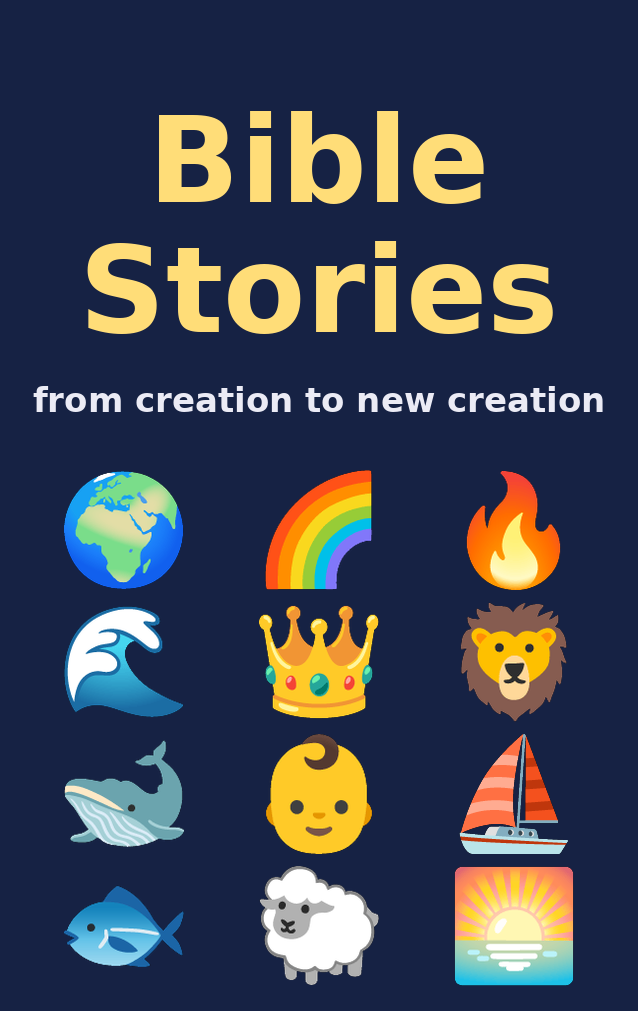
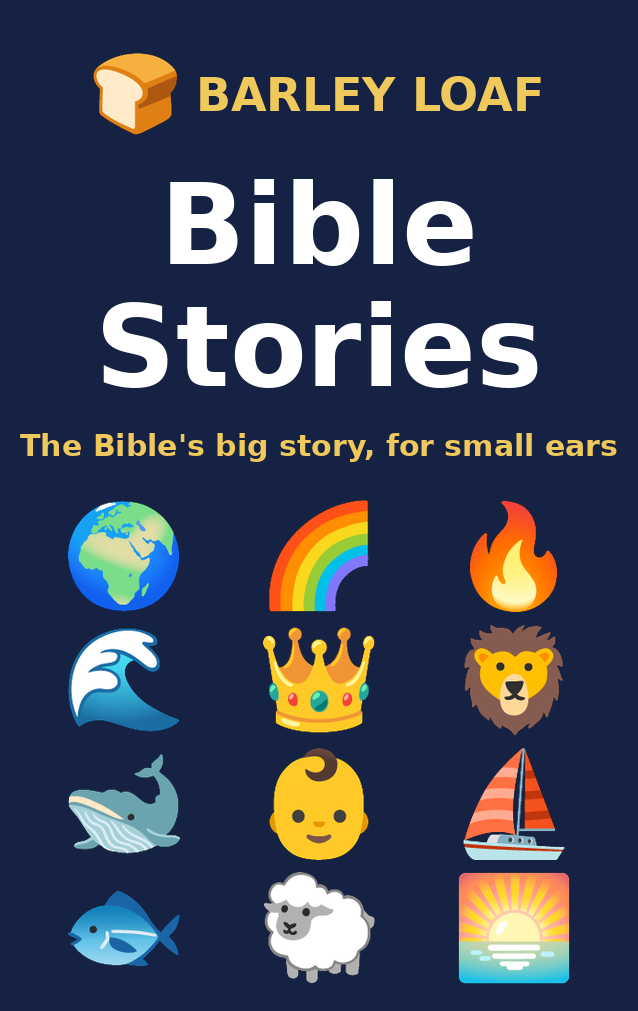
Add Barley Loaf brand, go-to-market plan and seasonal packs
Claude-Session: https://claude.ai/code/session_014qyqSGdw641w1TdqcS57hF

Changed region(s): [[0.0298, 0.0307, 0.9828, 0.9812], [0.7743, 0.9505, 0.8339, 0.9812]]

diff --git a/pipeline/pack.py b/pipeline/pack.py
@@ -1,7 +1,7 @@
 #!/usr/bin/env python3
 """Assemble sellable digital packs from build/tracks and assets.
 
-  pack.py            builds build/packs/{complete,old-testament,new-testament}/
+  pack.py            builds every pack in PACKS under build/packs/
 
 Each pack holds audio/, icons/, cover.png, playlist.json, Parent-Guide.html
 (printed to PDF by pipeline/guide_pdf.js), LICENCE.txt and NOTICES.txt.
@@ -13,9 +13,16 @@ import shutil
 from pathlib import Path
 
 ROOT = Path(__file__).resolve().parent.parent
-PACKS = {"complete": (1, 60, "Bible Stories: Creation to New Creation"),
-         "old-testament": (1, 33, "Bible Stories: The Old Testament"),
-         "new-testament": (34, 60, "Bible Stories: The New Testament")}
+BRAND = "Barley Loaf Bible Stories"
+R = lambda lo, hi: list(range(lo, hi + 1))
+PACKS = {  # slug: (story numbers, pack name)
+    "complete": (R(1, 60), "The Complete Collection: Creation to New Creation"),
+    "old-testament": (R(1, 33), "Volume 1: The Old Testament"),
+    "new-testament": (R(34, 60), "Volume 2: The New Testament"),
+    "christmas": ([33, 34, 35, 36], "The Christmas Story"),
+    "easter": ([51, 52, 53, 54, 55], "The Easter Story"),
+    "free-sampler": ([1, 25, 40, 45, 48], "Free Sampler"),
+}
 
 LICENCE = """LICENCE: PERSONAL AND HOUSEHOLD USE
 
@@ -56,6 +63,7 @@ CSS = """
 @page { size: A4; margin: 18mm 16mm; }
 body { font: 11pt/1.5 Georgia, 'DejaVu Serif', serif; color: #1c2333; }
 h1 { font: 700 26pt/1.15 'DejaVu Sans', Helvetica, sans-serif; color: #16224a; margin: 0 0 4pt; }
+p.brand { font: 700 11pt 'DejaVu Sans', Helvetica, sans-serif; letter-spacing: 1.5pt; text-transform: uppercase; color: #b98a12; margin: 0 0 6pt; }
 h2 { font: 700 14pt 'DejaVu Sans', Helvetica, sans-serif; color: #16224a; margin: 20pt 0 6pt;
      border-bottom: 2px solid #f0c95c; padding-bottom: 3pt; break-after: avoid; }
 p.lead { font-size: 12.5pt; }
@@ -88,11 +96,12 @@ def guide(name, stories, total_s):
     weighty = "".join(f"<li><b>{s['number']}. {e(s['title'])}</b> ({e(s['refs'])})</li>"
                       for s in stories if s["weighty"])
     n = len(stories)
-    return f"""<!doctype html><html lang="en-GB"><meta charset="utf-8"><title>{e(name)}</title>
+    return f"""<!doctype html><html lang="en-GB"><meta charset="utf-8"><title>{e(BRAND)}: {e(name)}</title>
 <style>{CSS}</style><body>
+<p class=brand>{e(BRAND)}</p>
 <h1>{e(name)}</h1>
 <p class=lead>{n} Bible stories for children aged three to five, told in order,
-with a cast of voices. {total_s / 3600:.1f} hours of audio, ready for a Yoto
+with a cast of voices. {round(total_s / 60)} minutes of audio, ready for a Yoto
 Make Your Own card or any MP3 player.</p>
 
 <h2>What is in this pack</h2>
@@ -112,7 +121,7 @@ Make Your Own card or any MP3 player.</p>
 <li>For each track, click its small icon, choose upload, and pick the picture from <b>icons</b> with the same number. Allow about ten minutes. This step is optional.</li>
 <li>Save. In the Yoto app on your phone, open the playlist, choose link to card, and hold a blank Make Your Own card on the player.</li>
 </ol>
-<p class=small>One card holds up to 100 tracks and 5 hours, so this pack fits on a single card.
+<p class=small>One card holds up to 100 tracks and 5 hours, so this pack fits on one card with room to spare.
 The files are ordinary MP3s and also play on any phone, tablet, car stereo or other children's audio player.</p>
 
 <h2>How the stories are told</h2>
@@ -128,8 +137,7 @@ The files are ordinary MP3s and also play on any phone, tablet, car stereo or ot
 <p class=small><span class=w>W</span> marks a weighty story: it includes death, judgement or real danger. You may want to listen first.</p>
 <table><tr><th>#</th><th>Story</th><th>Bible passage</th><th>Length</th></tr>{rows}</table>
 
-<h2>Weighty stories in this pack</h2>
-<ul>{weighty}</ul>
+{("<h2>Weighty stories in this pack</h2><ul>" + weighty + "</ul>") if weighty else ""}
 
 <h2>How this was made</h2>
 <p>The scripts are original retellings written for this collection and checked against the Bible passages listed above.
@@ -149,25 +157,25 @@ def main():
     for s in stories:
         rep = ROOT / "build" / "reports" / f"{s['stem']}.json"
         s["seconds"] = json.loads(rep.read_text())["seconds"]
-    for slug, (lo, hi, name) in PACKS.items():
+    for slug, (numbers, name) in PACKS.items():
         out = ROOT / "build" / "packs" / slug
         shutil.rmtree(out, ignore_errors=True)
         (out / "audio").mkdir(parents=True)
         (out / "icons").mkdir()
-        chosen = [s for s in stories if lo <= s["number"] <= hi]
+        chosen = [s for s in stories if s["number"] in numbers]
         for s in chosen:
             shutil.copy(ROOT / "build" / "tracks" / f"{s['stem']}.mp3", out / "audio")
             shutil.copy(ROOT / "assets" / "icons" / f"{s['stem']}.png", out / "icons")
         shutil.copy(ROOT / "assets" / "cover.png", out / "cover.png")
         total = sum(s["seconds"] for s in chosen)
-        (out / "playlist.json").write_text(json.dumps({"title": name, "cover": "cover.png", "chapters": [
+        (out / "playlist.json").write_text(json.dumps({"title": f"{BRAND}: {name}", "cover": "cover.png", "chapters": [
             {"number": s["number"], "title": s["title"], "passage": s["refs"], "weighty": s["weighty"],
              "seconds": s["seconds"], "audio": f"audio/{s['stem']}.mp3", "icon": f"icons/{s['stem']}.png"}
             for s in chosen]}, indent=2, ensure_ascii=False))
         (out / "LICENCE.txt").write_text(LICENCE)
         (out / "NOTICES.txt").write_text(NOTICES)
         (out / "Parent-Guide.html").write_text(guide(name, chosen, total))
-        print(f"{slug}: {len(chosen)} stories, {total / 3600:.2f} h")
+        print(f"{slug}: {len(chosen)} stories, {total / 60:.0f} min")
 
 
 if __name__ == "__main__":

diff --git a/pipeline/icons.py b/pipeline/icons.py
@@ -60,16 +60,23 @@ def main():
     cover = Image.new("RGB", (W, H), (22, 34, 68))
     d = ImageDraw.Draw(cover)
     bold = "/usr/share/fonts/truetype/dejavu/DejaVuSans-Bold.ttf"
-    for text, size, y in [("Bible", 120, 90), ("Stories", 120, 220)]:
+    loaf = glyph("🍞").resize((84, 84), Image.LANCZOS)
+    f = ImageFont.truetype(bold, 46)
+    brand = "BARLEY LOAF"
+    tw = d.textlength(brand, font=f)
+    x0 = (W - (84 + 18 + tw)) / 2
+    cover.paste(loaf, (int(x0), 52), loaf)
+    d.text((x0 + 84 + 18, 68), brand, font=f, fill=(240, 201, 92))
+    for text, size, y in [("Bible", 112, 160), ("Stories", 112, 282)]:
         f = ImageFont.truetype(bold, size)
-        d.text(((W - d.textlength(text, font=f)) / 2, y), text, font=f, fill=(255, 221, 120))
-    f = ImageFont.truetype(bold, 34)
-    sub = "from creation to new creation"
-    d.text(((W - d.textlength(sub, font=f)) / 2, 380), sub, font=f, fill=(235, 235, 245))
+        d.text(((W - d.textlength(text, font=f)) / 2, y), text, font=f, fill=(255, 255, 255))
+    f = ImageFont.truetype(bold, 30)
+    sub = "The Bible's big story, for small ears"
+    d.text(((W - d.textlength(sub, font=f)) / 2, 428), sub, font=f, fill=(240, 201, 92))
     picks = [1, 5, 15, 17, 24, 31, 29, 35, 40, 42, 45, 54]
     for i, n in enumerate(picks):
-        g = glyph(EMOJI[n]).resize((120, 120), Image.LANCZOS)
-        cover.paste(g, (64 + i % 3 * 195, 470 + i // 3 * 132), g)
+        g = glyph(EMOJI[n]).resize((112, 112), Image.LANCZOS)
+        cover.paste(g, (68 + i % 3 * 195, 500 + i // 3 * 124), g)
     cover.save(ROOT / "assets" / "cover.png")
     print(len(stories), "icons written")
 

diff --git a/docs/GO_TO_MARKET.md b/docs/GO_TO_MARKET.md
@@ -1,0 +1,174 @@
+# Go-to-market: Barley Loaf Bible Stories
+
+**Sell on Etsy to capture existing demand and on your own merchant-of-record
+store to keep the customers you bring yourself; launch the Christmas Story
+pack within ten days; and treat "thousands of buyers" as a 12 to 18 month
+target that depends on reaching beyond Yoto owners.** Yoto families who load
+their own cards and want Bible content number, on my estimate, only 20,000 to
+30,000 households worldwide, so Yoto alone will not deliver thousands.
+
+Written 21 November 2026. Prices and fees are from third-party pages unless
+stated and need checking against each platform before launch.
+
+## 1. The case against, first
+
+Three things can stop this reaching thousands, and each has a specific answer.
+
+1. **Computer voices are unpopular with exactly this audience.** Yoto's own
+   community forum has a thread titled "Disappointed with the rise in AI
+   content", and Yoto now badges AI audio. Some Christian parents will refuse
+   it on principle. Answer: disclose it in the first lines of every listing
+   (hiding it produces refunds and one-star reviews), lead with what is
+   strong (fidelity, order, the parent guide), give away a sampler so the
+   audio sells itself, and plan a human-narrated edition if sales justify it.
+   The scripts are the asset; the voices are replaceable.
+2. **The category is crowded and cheap.** Etsy already has many Bible story
+   packs for Yoto at US$5 to US$12 for 8 to 20 stories. Answer: do not
+   compete on price per pack. Compete on being the complete, ordered set with
+   a passage-by-passage parent guide, and use small seasonal packs as the
+   cheap way in.
+3. **There is no legal moat.** Text and audio made by AI get little or no
+   copyright protection, so a copyist is hard to stop. Answer: the moat is
+   brand, reviews, the email list and release cadence, not the files.
+
+Launch is also gated on two things only you can do: listen to all 158 minutes,
+and have a person check the scripts against the passages. The guide claims
+both.
+
+## 2. Platform: Etsy plus your own store
+
+| Platform | Role | Fee on a US$19 sale | Verdict |
+|----------|------|---------------------|---------|
+| Etsy | Buyers already search "Bible stories for Yoto" here | About US$2.25 (listing, 6.5% transaction, payment processing), plus 12 to 15% when Etsy's off-site ads make the sale. From memory; verify | Use for discovery |
+| Lemon Squeezy | Your own checkout; merchant of record, so it files US sales tax, UK and EU VAT and Australian GST for you | 5% + US$0.50, about US$1.45 (sources disagree on whether card fees are extra) | Use as home base |
+| Gumroad | Same role as Lemon Squeezy | 10% + US$0.50, about US$2.40 | Fallback if Lemon Squeezy onboarding is slow |
+| Payhip | Cheapest per sale | 5% on the free plan plus card fees | Rejected: not a merchant of record outside UK and EU VAT, so US tax falls on you |
+| Shopify | Full shop | Monthly fee, tax on you | Rejected until revenue justifies it |
+| Yoto Creators programme | Yoto prints your cards and sells them in its store for a royalty | Royalty | Register interest now; do not plan around it |
+
+Why two, not one:
+
+- **Etsy is where the demand is, but you rent it.** Etsy owns the customer,
+  takes the largest cut, and can delist. It also limits digital listings to
+  five files of 20 MB each, so the 59 to 146 MB packs must be delivered as a
+  small PDF containing a download link, which is the common workaround.
+- **Your own store is where the business is.** Traffic you generate (email,
+  bloggers, churches) should land where the fee is lowest, you get the email
+  address, and you can run affiliates and discount codes.
+- **Yoto's own programme is the prize but not a plan.** New creator
+  registrations are reported paused, Yoto expects a following on its free
+  Open Mic section first, Open Mic review is itself on hold, and I could not
+  find its position on computer-generated voices. A competing title, "Big
+  Bible Stories for Little Hearts", is already in Yoto's creator store.
+
+Etsy rules that apply (reported, October 2026 update): AI-made digital
+downloads are allowed if the seller has a clear creative role and discloses
+AI use in the description; audio listings may use representative images.
+
+## 3. Pricing
+
+| Pack | Launch price (US$) | Rationale |
+|------|--------------------|-----------|
+| Complete Collection (60) | 24, with 19 for the first 30 days | US$0.32 to 0.40 a story against US$0.50 to 1.00 for competitors |
+| Volume 1 or Volume 2 | 14 each | The pair costs more than the complete set, which steers buyers upward |
+| Christmas Story, Easter Story | 5 each | Impulse price; matches the cheapest competitors |
+| Free Sampler (5) | 0, for an email address | The audio has to be heard to overcome the AI objection |
+| Group licence (church, nursery, school) | 79 | One sale reaches many families and their word of mouth |
+
+## 4. Who buys, and how many there are
+
+My own estimate, built bottom-up (confidence: low; only the first figure is
+sourced):
+
+| Step | Assumption | Households |
+|------|------------|------------|
+| Families with a Yoto | "Over 1 million" reported | 1,200,000 |
+| With a child aged 3 to 5 now | 40% | 480,000 |
+| Who want Bible content for that child | 15% (US-weighted) | 72,000 |
+| Who load their own cards | 35% | 25,000 |
+
+Thousands of buyers out of roughly 25,000 would need 10 to 20% of the entire
+serviceable Yoto market. That is not credible in 18 months. The same MP3s,
+however, serve three larger groups, and the plan depends on them:
+
+1. **Toniebox owners** using Creative-Tonies. Tonies has sold several times
+   more players than Yoto. Check capacity first: I believe a Creative-Tonie
+   holds 90 minutes, which fits Volume 2 and the seasonal packs but not
+   Volume 1 (95 minutes) on one figure.
+2. **Christian parents with no audio player at all**, playing MP3s on a phone,
+   in the car or at bedtime. This is by far the largest group and the reason
+   listings should say "or any MP3 player".
+3. **Churches and Christian nurseries**, through the group licence.
+
+A workable target mix for 3,000 buyers in 18 months: about 1,200 from Etsy
+search, 1,300 through your own store from email, bloggers and the podcast,
+and 500 seasonal-pack buyers who never trade up. At a blended US$14 that is
+roughly US$42,000 gross and US$36,000 after fees. This is a worthwhile side
+product, not a venture-scale business.
+
+## 5. Channels, in order of expected return
+
+1. **Etsy search.** Ten or so listings, not three: each pack, plus variants
+   titled for Yoto, for Toniebox and for "MP3 download". Etsy rewards
+   listing count, reviews and recency.
+2. **Free sampler into an email list.** Five full stories for an email
+   address, followed by four emails over two weeks. This is the only asset
+   you fully own and it is what makes Easter cheaper to launch than
+   Christmas.
+3. **Christian parenting and homeschool writers who already cover Yoto.**
+   Homeschooling families are heavily over-represented among Yoto owners.
+   Offer a free complete set, a reader discount code and a 30 to 40%
+   affiliate commission through the store. Twenty targeted approaches beat
+   two hundred cold ones.
+4. **Yoto and Toniebox parent groups on Facebook.** These are large and
+   allergic to selling. Share the free sampler where rules allow, answer
+   questions, and let the sampler do the work.
+5. **Churches.** Email children's ministry leaders the sampler and the group
+   licence before Advent and before Lent. One church newsletter reaches more
+   of the right parents than any advertisement.
+6. **A free weekly podcast.** Release one story a week on Apple and Spotify
+   with a ten-second pointer to the pack. The audio already exists, so the
+   cost is nil; sixty weeks of episodes sell the convenience of having all
+   sixty at once, offline, on a card.
+7. **Pinterest.** Slow, free and long-lived for Etsy digital products.
+8. **Paid advertising.** Etsy ads at a few dollars a day from launch. Meta
+   advertising only once the store converts sampler downloads to sales at a
+   known rate.
+
+## 6. Calendar
+
+Christmas is the reason to move now: players are given at Christmas, and
+parents fill cards in the week after.
+
+| When | Action |
+|------|--------|
+| By 28 November | Full listen and script review. Trade mark check on the name. Open the Etsy shop and the store. Host the pack files |
+| By 1 December | Christmas Story, Free Sampler and Complete Collection live on both. First fifteen blogger approaches sent |
+| December | Church emails in the first week. Seed thirty discounted copies for honest reviews |
+| 26 December to mid January | The "new player" wave: raise Etsy ad spend, post the sampler in parent groups |
+| January | Start the podcast. Add Toniebox-titled listings |
+| By 1 March 2027 | Easter Story live and emailed to the list (Easter Sunday is 28 March 2027). Second round of church emails for Lent |
+| April onwards | Decide on the next product from the data: a second 60 stories, an edition for ages 6 to 8, Spanish, or a human-narrated edition |
+
+## 7. What to measure
+
+| Measure | Why | Act if |
+|---------|-----|--------|
+| Sampler download to purchase rate | Tells you whether the audio overcomes the AI objection | Below 3% after 300 downloads: fix the audio or the offer before spending on traffic |
+| Etsy listing conversion | Tells you whether the listing and price work | Below 1.5%: rework images, title and price |
+| Refund rate and review text | Early warning on voices, theology or delivery problems | Any pattern in complaints |
+| Share buying Complete rather than a volume | Tests the price ladder | Below half: widen the gap |
+| Email list size | The asset that makes each launch cheaper | Flat for a month |
+
+## 8. Still open
+
+- **Rights in the audio.** You have confirmed the ElevenLabs output is cleared
+  for sale because it was generated on paid API usage. I have not read the
+  terms for the pay-as-you-go tier; reported terms give commercial rights on
+  paid plans, so this is probably right (confidence: moderate).
+- **Yoto's view of third-party packs.** I found no Yoto policy either way.
+  Selling MP3s that buyers load themselves is widespread on Etsy.
+- **Tax.** A merchant of record covers overseas sales tax. Australian income
+  tax and the GST registration threshold are for your accountant.
+- **File hosting** for the Etsy download links, and a drawn logo to replace
+  the placeholder loaf.

diff --git a/docs/BRAND.md b/docs/BRAND.md
@@ -1,0 +1,59 @@
+# Brand: Barley Loaf Bible Stories
+
+**The brand is Barley Loaf: named after the boy whose five barley loaves Jesus
+used to feed five thousand (John 6:9). A small thing, offered, that goes a
+long way is exactly what a three-minute Bible story for a three-year-old is.**
+
+## Why this name
+
+1. **It comes from inside the product.** Story 42, "Five Loaves and Two Fish",
+   is the origin story. The brand explains itself in one sentence to any
+   Christian parent, and that sentence is about a child.
+2. **It is ownable.** A search of children's Bible audio found no brand using
+   it, where the obvious names are crowded: "Little Ark" (books, preschools),
+   "Sparrow" (a major Christian record label), "Five Smooth Stones" (many
+   ministries), "Lamplight" (a Christian audio drama company). Confidence:
+   moderate. This was a web search, not a trade mark search; run the name
+   through IP Australia, USPTO and UKIPO before printing anything.
+3. **It is warm and concrete.** Bread is a thing a small child knows, it is
+   easy to draw at 16 pixels, and it carries no denominational flag.
+4. **It scales.** "Barley Loaf" can sit in front of other ages, languages and
+   formats without the word "Yoto" or "little" boxing it in.
+
+Runners-up, in order: **Small Sparrow** (Matthew 10:29-31) and
+**Stone & Sling** (1 Samuel 17). Both are usable if Barley Loaf fails a trade
+mark check.
+
+## The brand in use
+
+| Element | Decision |
+|---------|----------|
+| Name | Barley Loaf |
+| Product line | Barley Loaf Bible Stories |
+| Tagline | The Bible's big story, for small ears |
+| Promise | Every story true to the passage, told so a three-year-old can follow it |
+| Proof points | 60 stories in order; a cast of voices; a parent guide listing every passage; hard stories told plainly and flagged |
+| Voice | A calm, well-read parent. Plain words, no hype, no exclamation marks in marketing copy, never cute about hard stories |
+| Colours | Deep navy (#16224A), barley gold (#F0C95C), white |
+| Mark | A loaf. The cover currently uses an open-licence emoji loaf as a placeholder; commission a simple drawn mark before spending on advertising |
+
+## Pack names
+
+| Pack | Stories | Length | Role |
+|------|---------|--------|------|
+| The Complete Collection: Creation to New Creation | 60 | 158 min | Flagship |
+| Volume 1: The Old Testament | 33 | 95 min | Lower entry price |
+| Volume 2: The New Testament | 27 | 63 min | Lower entry price |
+| The Christmas Story | 4 | 11 min | Seasonal entry product |
+| The Easter Story | 5 | 12 min | Seasonal entry product |
+| Free Sampler | 5 | 12 min | Email capture, review seeding |
+
+All six are built by `python3 pipeline/pack.py`.
+
+## What the brand must never claim
+
+- That the voices are human. The notices and the guide say plainly that they
+  are computer-generated, and every listing must say so too.
+- That Yoto endorses it. Use "for Yoto Make Your Own cards" descriptively,
+  never Yoto's logo, typeface or card artwork style.
+- That the scripts were reviewed by a person, until a person has reviewed them.
